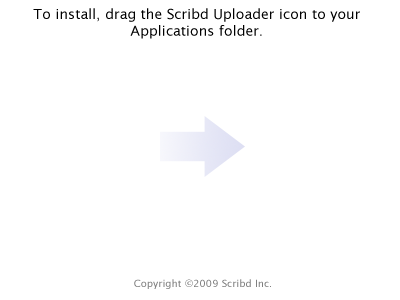
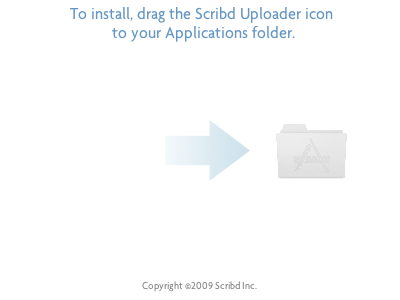
Improvements for Internet distribution

diff --git a/Distribution/MakeDMG.rb b/Distribution/MakeDMG.rb
@@ -28,7 +28,7 @@ mountpoint.gsub! ' ', '\\ '
 
 `SetFile -a C #{mountpoint}`
 
-`ln -s /Applications #{mountpoint}/Applications`
+#`ln -s /Applications #{mountpoint}/Applications`
 
 `hdiutil detach #{mountpoint}`
 `hdiutil convert #{big_dmg} -format UDZO -o #{dmg}`
